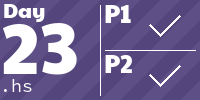
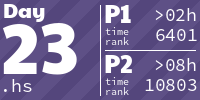
2024, day 23

diff --git a/README.md b/README.md
@@ -10,10 +10,10 @@ according to r/adventofcode when my own solution was much less efficient.
 
 <!-- AOC TILES BEGIN -->
 <h1 align="center">
-  Advent of Code - 494/494 ⭐
+  Advent of Code - 496/496 ⭐
 </h1>
 <h1 align="center">
-  2024 - 44 ⭐ - Haskell
+  2024 - 46 ⭐ - Haskell
 </h1>
 <a href="2024/days/Day1.hs">
   <img src=".aoc_tiles/tiles/2024/01.png" width="161px">
@@ -80,6 +80,9 @@ according to r/adventofcode when my own solution was much less efficient.
 </a>
 <a href="2024/days/Day22.hs">
   <img src=".aoc_tiles/tiles/2024/22.png" width="161px">
+</a>
+<a href="2024/days/Day23.hs">
+  <img src=".aoc_tiles/tiles/2024/23.png" width="161px">
 </a>
 <h1 align="center">
   2023 - 50 ⭐ - Haskell
